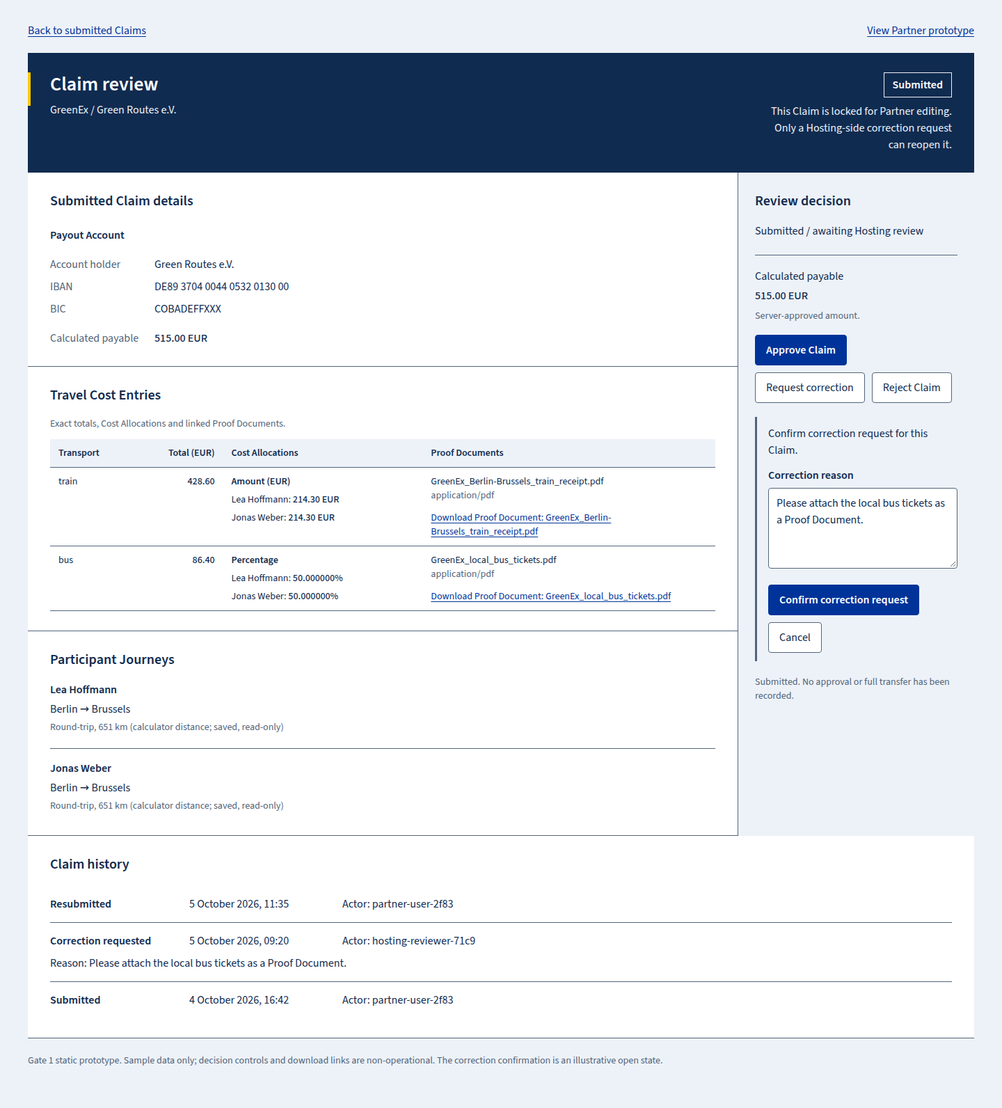
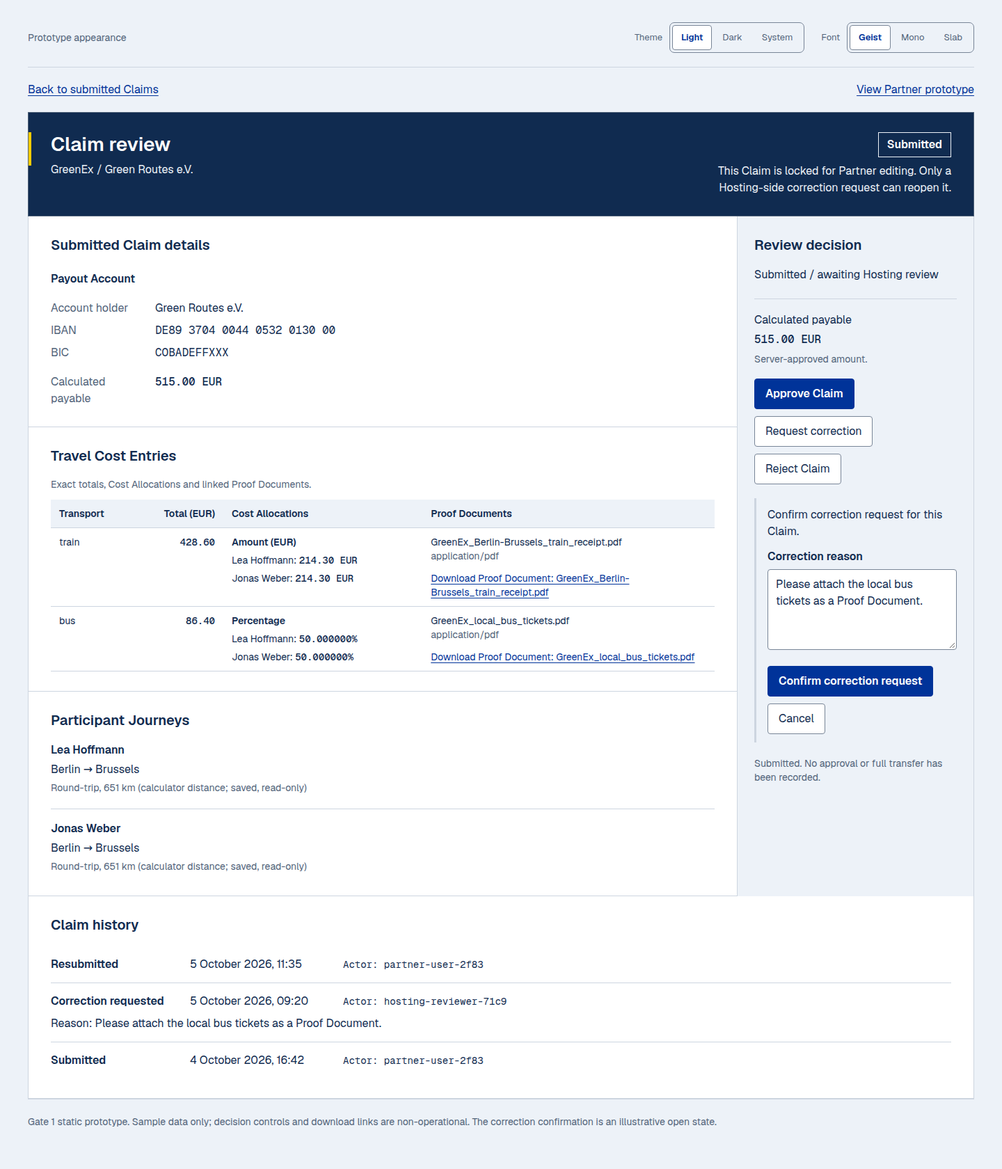
docs(design): charcoal dark theme, theme switcher, font candidates

diff --git a/docs/design/prototype/claim-partner.html b/docs/design/prototype/claim-partner.html
@@ -1,3 +1,53 @@
 <!doctype html>
-<html lang="en"><head><meta charset="utf-8"><meta name="viewport" content="width=device-width, initial-scale=1"><title>Claim workspace | GreenEx</title><link rel="preconnect" href="https://fonts.googleapis.com"><link rel="preconnect" href="https://fonts.gstatic.com" crossorigin><link href="https://fonts.googleapis.com/css2?family=Source+Sans+3:wght@400;500;600&display=swap" rel="stylesheet"><link rel="stylesheet" href="erasmus.css"></head><body><main class="shell">
-<nav class="topline" aria-label="Prototype navigation"><a href="#prototype-note">Back to Projects</a><a href="claim-review.html">View Hosting review prototype</a></nav><header class="context"><div><h1>Claim workspace</h1><p>GreenEx / Green Routes e.V.</p></div><div class="state"><span class="status">Correction requested</span><p>Correct the Claim data and Proof Documents, then resubmit for Hosting review.</p></div></header><div class="document"><div class="columns"><aside class="aside" aria-labelledby="submission-title"><h2 id="submission-title">Submission</h2><ul class="checklist" aria-label="Submission checklist"><li><p><strong>Pass:</strong> Selected Payout Account</p><a href="#claim-payout">View section</a></li><li><p><strong>Pass:</strong> At least one Travel Cost Entry</p><a href="#claim-costs">View section</a></li><li><p><strong>Pass:</strong> Valid transport, exact costs and allocations</p><a href="#claim-costs">View section</a></li><li><p><strong>Pass:</strong> Proof Documents linked to every cost</p><a href="#claim-proofs">View section</a></li><li><p><strong>Pass:</strong> Covered Participations belong to this Partnership and have Journeys</p><a href="#claim-journeys">View section</a></li><li><p><strong>Pass:</strong> Complete Participant Journeys</p><a href="#claim-journeys">View section</a></li><li><p><strong>Pass:</strong> Relationship, exact-money and frozen funding rules</p><a href="#claim-journeys">View section</a></li></ul><div class="payable"><p>Calculated payable<span class="amount">515.00 EUR</span><span class="small muted">Computed by the server; not editable.</span></p></div><button class="primary" type="button">Submit Claim</button><div class="notice"><p>Confirm submission: submission locks the Claim and selected Payout Account for Partner editing until the Hosting side requests a correction.</p><div class="actions"><button class="primary" type="button">Confirm submission</button><button type="button">Cancel</button></div></div></aside><div class="evidence"><section class="section" id="claim-payout"><h2>Claim draft</h2><p class="muted">Claim correction_requested / saved</p><label for="payout-select">Payout Account</label><select id="payout-select"><option>Green Routes e.V. — DE89 3704 0044 0532 0130 00</option></select><dl class="metadata"><dt>Account holder</dt><dd>Green Routes e.V.</dd><dt>IBAN</dt><dd class="iban">DE89 3704 0044 0532 0130 00</dd><dt>BIC</dt><dd>COBADEFFXXX</dd></dl><h3>Create Payout Account</h3><div class="fields"><div class="full"><label for="account-holder">Account holder</label><input id="account-holder" placeholder="Account holder"></div><div><label for="account-iban">IBAN</label><input id="account-iban" placeholder="DE…"></div><div><label for="account-bic">BIC (optional)</label><input id="account-bic" placeholder="BIC"></div></div><button type="button">Create Payout Account</button><div class="notice"><p><strong>Correction requested:</strong> Please attach the local bus tickets as a Proof Document.</p></div></section><section class="section" id="claim-journeys"><h2>Participant Journeys</h2><ul><li class="journey" id="journey-1"><div><p><strong>Lea Hoffmann</strong></p><p>Berlin → Brussels</p><p class="muted small">Round-trip, 651 km (calculator distance)</p></div><button type="button">Correct Lea Hoffmann's journey</button></li><li class="journey" id="journey-2"><div><p><strong>Jonas Weber</strong></p><p>Berlin → Brussels</p><p class="muted small">Round-trip, 651 km (calculator distance)</p></div><button type="button">Correct Jonas Weber's journey</button></li></ul></section></div></div><section class="section" id="claim-costs"><h2>Travel Cost Entries</h2><div class="scroll-table" role="region" aria-label="Travel Cost Entries table, horizontally scrollable" tabindex="0"><table><caption>Exact totals, Cost Allocations and linked Proof Documents.</caption><colgroup><col style="width:12%"><col style="width:14%"><col style="width:30%"><col style="width:30%"><col style="width:14%"></colgroup><thead><tr><th scope="col">Transport</th><th scope="col" class="number">Total (EUR)</th><th scope="col">Cost Allocations</th><th scope="col">Proof Documents</th><th scope="col">Action</th></tr></thead><tbody><tr id="cost-train"><td>train</td><td class="number amount">428.60</td><td><p class="method">Amount (EUR)</p><ul><li>Lea Hoffmann: <span class="amount">214.30 EUR</span></li><li>Jonas Weber: <span class="amount">214.30 EUR</span></li></ul></td><td><span class="file">GreenEx_Berlin-Brussels_train_receipt.pdf</span></td><td><button type="button">Edit cost</button></td></tr><tr id="cost-bus"><td>bus</td><td class="number amount">86.40</td><td><p class="method">Percentage</p><ul><li>Lea Hoffmann: <span class="amount">50.000000%</span></li><li>Jonas Weber: <span class="amount">50.000000%</span></li></ul></td><td><span class="file">GreenEx_local_bus_tickets.pdf</span></td><td><button type="button">Edit cost</button></td></tr></tbody></table></div><h3>Add cost</h3><div class="fields"><div><label for="cost-profile">Transport</label><select id="cost-profile"><option>train</option><option>bus</option><option>boat</option><option>car</option><option>electricCar</option><option>plane</option></select></div><div><label for="cost-amount">Exact total (EUR)</label><input id="cost-amount" inputmode="decimal" placeholder="0.00"></div><div><label for="cost-method">Allocation method</label><select id="cost-method"><option>Equal</option><option>Percentage</option><option>Amount (EUR)</option></select></div></div><fieldset><legend>Covered Participations</legend><label class="check"><input type="checkbox" checked> Lea Hoffmann</label><label class="check"><input type="checkbox" checked> Jonas Weber</label></fieldset><p class="muted small">Equal split across 2 Participations; exact EUR shares computed by the server after save.</p><button class="primary" type="button">Save cost</button></section><section class="section" id="claim-proofs"><h2>Proof Documents</h2><ul class="proof-list"><li class="file">GreenEx_Berlin-Brussels_train_receipt.pdf <span class="muted small">(248320 bytes)</span></li><li class="file">GreenEx_local_bus_tickets.pdf <span class="muted small">(96480 bytes)</span></li></ul><div class="upload"><label for="proof-file">Upload Proof Document (PDF, JPEG, PNG; up to 10 MB)</label><input id="proof-file" type="file" accept="application/pdf,image/jpeg,image/png"><div class="actions"><button type="button" disabled>Upload document</button></div><p class="small muted">Static upload snapshot: GreenEx_additional_receipt.pdf</p><progress value="64" max="100" aria-label="Upload progress">Upload: 64%</progress><output>Upload: 64%</output></div><div class="proof-links"><div id="proof-train"><p><strong>train</strong> <span class="amount">428.60 EUR</span></p><p class="file">Linked: GreenEx_Berlin-Brussels_train_receipt.pdf</p><label for="link-cost-train">Link a Proof Document to this cost</label><select id="link-cost-train"><option>Select Claim document</option></select></div><div id="proof-bus"><p><strong>bus</strong> <span class="amount">86.40 EUR</span></p><p class="file">Linked: GreenEx_local_bus_tickets.pdf</p><label for="link-cost-bus">Link a Proof Document to this cost</label><select id="link-cost-bus"><option>Select Claim document</option></select></div></div></section><section class="section"><h2>Claim history</h2><ol class="history"><li><strong>Correction requested</strong><time>5 October 2026, 09:20</time><span class="actor">Actor: hosting-reviewer-71c9</span><p class="reason">Reason: Please attach the local bus tickets as a Proof Document.</p></li><li><strong>Submitted</strong><time>4 October 2026, 16:42</time><span class="actor">Actor: partner-user-2f83</span></li></ol></section></div><footer id="prototype-note">Gate 1 static prototype. Sample data only; controls do not save, submit or upload. Upload progress and confirmations are illustrative snapshots.</footer></main></body></html>
+<html lang="en"><head><meta charset="utf-8"><meta name="viewport" content="width=device-width, initial-scale=1"><title>Claim workspace | GreenEx</title><link rel="preconnect" href="https://fonts.googleapis.com"><link rel="preconnect" href="https://fonts.gstatic.com" crossorigin><link href="https://fonts.googleapis.com/css2?family=Geist:wght@400;500;600&family=Geist+Mono:wght@400;500;600&family=JetBrains+Mono:wght@400;500;600&family=Roboto+Slab:wght@500;600&family=Source+Sans+3:wght@400;500;600&display=swap" rel="stylesheet"><script>
+  const prototypeOptions = { theme: ['light', 'dark', 'system'], font: ['geist', 'mono', 'slab'] };
+  const prototypeDefaults = { theme: 'system', font: 'geist' };
+  const prototypeParams = new URLSearchParams(location.search);
+  for (const [key, values] of Object.entries(prototypeOptions)) {
+    document.documentElement.dataset[key] = values.includes(prototypeParams.get(key)) ? prototypeParams.get(key) : prototypeDefaults[key];
+  }
+</script><link rel="stylesheet" href="erasmus.css"></head><body><main class="shell">
+<div class="prototype-toolbar" role="group" aria-label="Prototype appearance">
+  <span class="prototype-note">Prototype appearance</span>
+  <div class="prototype-option" role="group" aria-label="Theme">
+    <span class="prototype-label">Theme</span><div class="segmented">
+      <button type="button" data-theme-option="light" aria-pressed="false">Light</button>
+      <button type="button" data-theme-option="dark" aria-pressed="false">Dark</button>
+      <button type="button" data-theme-option="system" aria-pressed="false">System</button>
+    </div>
+  </div>
+  <div class="prototype-option" role="group" aria-label="Font candidate">
+    <span class="prototype-label">Font</span><div class="segmented">
+      <button type="button" data-font-option="geist" title="Geist Sans with Geist Mono figures" aria-pressed="false">Geist</button>
+      <button type="button" data-font-option="mono" title="Geist Sans with JetBrains Mono figures" aria-pressed="false">Mono</button>
+      <button type="button" data-font-option="slab" title="Roboto Slab headings with Source Sans 3 body and figures" aria-pressed="false">Slab</button>
+    </div>
+  </div>
+</div>
+<nav class="topline" aria-label="Prototype navigation"><a href="#prototype-note">Back to Projects</a><a data-prototype-page href="claim-review.html">View Hosting review prototype</a></nav><header class="context"><div><h1>Claim workspace</h1><p>GreenEx / Green Routes e.V.</p></div><div class="state"><span class="status">Correction requested</span><p>Correct the Claim data and Proof Documents, then resubmit for Hosting review.</p></div></header><div class="document"><div class="columns"><aside class="aside" aria-labelledby="submission-title"><h2 id="submission-title">Submission</h2><ul class="checklist" aria-label="Submission checklist"><li><p><strong>Pass:</strong> Selected Payout Account</p><a href="#claim-payout">View section</a></li><li><p><strong>Pass:</strong> At least one Travel Cost Entry</p><a href="#claim-costs">View section</a></li><li><p><strong>Pass:</strong> Valid transport, exact costs and allocations</p><a href="#claim-costs">View section</a></li><li><p><strong>Pass:</strong> Proof Documents linked to every cost</p><a href="#claim-proofs">View section</a></li><li><p><strong>Pass:</strong> Covered Participations belong to this Partnership and have Journeys</p><a href="#claim-journeys">View section</a></li><li><p><strong>Pass:</strong> Complete Participant Journeys</p><a href="#claim-journeys">View section</a></li><li><p><strong>Pass:</strong> Relationship, exact-money and frozen funding rules</p><a href="#claim-journeys">View section</a></li></ul><div class="payable"><p>Calculated payable<span class="amount">515.00 EUR</span><span class="small muted">Computed by the server; not editable.</span></p></div><button class="primary" type="button">Submit Claim</button><div class="notice"><p>Confirm submission: submission locks the Claim and selected Payout Account for Partner editing until the Hosting side requests a correction.</p><div class="actions"><button class="primary" type="button">Confirm submission</button><button type="button">Cancel</button></div></div></aside><div class="evidence"><section class="section" id="claim-payout"><h2>Claim draft</h2><p class="muted">Claim correction_requested / saved</p><label for="payout-select">Payout Account</label><select id="payout-select"><option>Green Routes e.V. — DE89 3704 0044 0532 0130 00</option></select><dl class="metadata"><dt>Account holder</dt><dd>Green Routes e.V.</dd><dt>IBAN</dt><dd class="iban">DE89 3704 0044 0532 0130 00</dd><dt>BIC</dt><dd class="reference">COBADEFFXXX</dd></dl><h3>Create Payout Account</h3><div class="fields"><div class="full"><label for="account-holder">Account holder</label><input id="account-holder" placeholder="Account holder"></div><div><label for="account-iban">IBAN</label><input id="account-iban" placeholder="DE…"></div><div><label for="account-bic">BIC (optional)</label><input id="account-bic" placeholder="BIC"></div></div><button type="button">Create Payout Account</button><div class="notice"><p><strong>Correction requested:</strong> Please attach the local bus tickets as a Proof Document.</p></div></section><section class="section" id="claim-journeys"><h2>Participant Journeys</h2><ul><li class="journey" id="journey-1"><div><p><strong>Lea Hoffmann</strong></p><p>Berlin → Brussels</p><p class="muted small">Round-trip, 651 km (calculator distance)</p></div><button type="button">Correct Lea Hoffmann's journey</button></li><li class="journey" id="journey-2"><div><p><strong>Jonas Weber</strong></p><p>Berlin → Brussels</p><p class="muted small">Round-trip, 651 km (calculator distance)</p></div><button type="button">Correct Jonas Weber's journey</button></li></ul></section></div></div><section class="section" id="claim-costs"><h2>Travel Cost Entries</h2><div class="scroll-table" role="region" aria-label="Travel Cost Entries table, horizontally scrollable" tabindex="0"><table><caption>Exact totals, Cost Allocations and linked Proof Documents.</caption><colgroup><col style="width:12%"><col style="width:14%"><col style="width:30%"><col style="width:30%"><col style="width:14%"></colgroup><thead><tr><th scope="col">Transport</th><th scope="col" class="number">Total (EUR)</th><th scope="col">Cost Allocations</th><th scope="col">Proof Documents</th><th scope="col">Action</th></tr></thead><tbody><tr id="cost-train"><td>train</td><td class="number amount">428.60</td><td><p class="method">Amount (EUR)</p><ul><li>Lea Hoffmann: <span class="amount">214.30 EUR</span></li><li>Jonas Weber: <span class="amount">214.30 EUR</span></li></ul></td><td><span class="file">GreenEx_Berlin-Brussels_train_receipt.pdf</span></td><td><button type="button">Edit cost</button></td></tr><tr id="cost-bus"><td>bus</td><td class="number amount">86.40</td><td><p class="method">Percentage</p><ul><li>Lea Hoffmann: <span class="amount">50.000000%</span></li><li>Jonas Weber: <span class="amount">50.000000%</span></li></ul></td><td><span class="file">GreenEx_local_bus_tickets.pdf</span></td><td><button type="button">Edit cost</button></td></tr></tbody></table></div><h3>Add cost</h3><div class="fields"><div><label for="cost-profile">Transport</label><select id="cost-profile"><option>train</option><option>bus</option><option>boat</option><option>car</option><option>electricCar</option><option>plane</option></select></div><div><label for="cost-amount">Exact total (EUR)</label><input id="cost-amount" inputmode="decimal" placeholder="0.00"></div><div><label for="cost-method">Allocation method</label><select id="cost-method"><option>Equal</option><option>Percentage</option><option>Amount (EUR)</option></select></div></div><fieldset><legend>Covered Participations</legend><label class="check"><input type="checkbox" checked> Lea Hoffmann</label><label class="check"><input type="checkbox" checked> Jonas Weber</label></fieldset><p class="muted small">Equal split across 2 Participations; exact EUR shares computed by the server after save.</p><button class="primary" type="button">Save cost</button></section><section class="section" id="claim-proofs"><h2>Proof Documents</h2><ul class="proof-list"><li class="file">GreenEx_Berlin-Brussels_train_receipt.pdf <span class="muted small">(248320 bytes)</span></li><li class="file">GreenEx_local_bus_tickets.pdf <span class="muted small">(96480 bytes)</span></li></ul><div class="upload"><label for="proof-file">Upload Proof Document (PDF, JPEG, PNG; up to 10 MB)</label><input id="proof-file" type="file" accept="application/pdf,image/jpeg,image/png"><div class="actions"><button type="button" disabled>Upload document</button></div><p class="small muted">Static upload snapshot: GreenEx_additional_receipt.pdf</p><progress value="64" max="100" aria-label="Upload progress">Upload: 64%</progress><output>Upload: 64%</output></div><div class="proof-links"><div id="proof-train"><p><strong>train</strong> <span class="amount">428.60 EUR</span></p><p class="file">Linked: GreenEx_Berlin-Brussels_train_receipt.pdf</p><label for="link-cost-train">Link a Proof Document to this cost</label><select id="link-cost-train"><option>Select Claim document</option></select></div><div id="proof-bus"><p><strong>bus</strong> <span class="amount">86.40 EUR</span></p><p class="file">Linked: GreenEx_local_bus_tickets.pdf</p><label for="link-cost-bus">Link a Proof Document to this cost</label><select id="link-cost-bus"><option>Select Claim document</option></select></div></div></section><section class="section"><h2>Claim history</h2><ol class="history"><li><strong>Correction requested</strong><time>5 October 2026, 09:20</time><span class="actor">Actor: hosting-reviewer-71c9</span><p class="reason">Reason: Please attach the local bus tickets as a Proof Document.</p></li><li><strong>Submitted</strong><time>4 October 2026, 16:42</time><span class="actor">Actor: partner-user-2f83</span></li></ol></section></div><footer id="prototype-note">Gate 1 static prototype. Sample data only; controls do not save, submit or upload. Upload progress and confirmations are illustrative snapshots.</footer></main><script>
+  function syncPrototypeControls() {
+    for (const key of Object.keys(prototypeOptions)) {
+      document.querySelectorAll(`[data-${key}-option]`).forEach(button => {
+        button.setAttribute('aria-pressed', String(button.getAttribute(`data-${key}-option`) === document.documentElement.dataset[key]));
+      });
+    }
+    document.querySelectorAll('.topline a[data-prototype-page]').forEach(link => {
+      const url = new URL(link.getAttribute('href'), location.href);
+      url.searchParams.set('theme', document.documentElement.dataset.theme);
+      url.searchParams.set('font', document.documentElement.dataset.font);
+      link.href = url.href;
+    });
+  }
+  for (const key of Object.keys(prototypeOptions)) {
+    document.querySelectorAll(`[data-${key}-option]`).forEach(button => {
+      button.addEventListener('click', () => {
+        document.documentElement.dataset[key] = button.getAttribute(`data-${key}-option`);
+        const url = new URL(location.href);
+        url.searchParams.set(key, document.documentElement.dataset[key]);
+        history.replaceState(null, '', url);
+        syncPrototypeControls();
+      });
+    });
+  }
+  syncPrototypeControls();
+</script></body></html>

diff --git a/docs/design/prototype/claim-review.html b/docs/design/prototype/claim-review.html
@@ -1,3 +1,53 @@
 <!doctype html>
-<html lang="en"><head><meta charset="utf-8"><meta name="viewport" content="width=device-width, initial-scale=1"><title>Claim review | GreenEx</title><link rel="preconnect" href="https://fonts.googleapis.com"><link rel="preconnect" href="https://fonts.gstatic.com" crossorigin><link href="https://fonts.googleapis.com/css2?family=Source+Sans+3:wght@400;500;600&display=swap" rel="stylesheet"><link rel="stylesheet" href="erasmus.css"></head><body><main class="shell">
-<nav class="topline" aria-label="Prototype navigation"><a href="#prototype-note">Back to submitted Claims</a><a href="claim-partner.html">View Partner prototype</a></nav><header class="context"><div><h1>Claim review</h1><p>GreenEx / Green Routes e.V.</p></div><div class="state"><span class="status">Submitted</span><p>This Claim is locked for Partner editing. Only a Hosting-side correction request can reopen it.</p></div></header><div class="document"><div class="columns"><aside class="aside" aria-labelledby="decision-title"><h2 id="decision-title">Review decision</h2><p>Submitted / awaiting Hosting review</p><div class="payable"><p>Calculated payable<span class="amount">515.00 EUR</span><span class="small muted">Server-approved amount.</span></p></div><div class="actions"><button class="primary" type="button">Approve Claim</button><button type="button">Request correction</button><button type="button">Reject Claim</button></div><div class="notice"><p>Confirm correction request for this Claim.</p><label for="decision-reason">Correction reason</label><textarea id="decision-reason" rows="4" required maxlength="2000">Please attach the local bus tickets as a Proof Document.</textarea><div class="actions"><button class="primary" type="button">Confirm correction request</button><button type="button">Cancel</button></div></div><p class="small muted" style="margin-top:20px">Submitted. No approval or full transfer has been recorded.</p></aside><div class="evidence"><section class="section" id="claim-payout"><h2>Submitted Claim details</h2><h3>Payout Account</h3><dl class="metadata"><dt>Account holder</dt><dd>Green Routes e.V.</dd><dt>IBAN</dt><dd class="iban">DE89 3704 0044 0532 0130 00</dd><dt>BIC</dt><dd>COBADEFFXXX</dd></dl><dl class="metadata"><dt>Calculated payable</dt><dd class="amount">515.00 EUR</dd></dl></section><section class="section" id="claim-costs"><h2>Travel Cost Entries</h2><div class="scroll-table" role="region" aria-label="Travel Cost Entries table, horizontally scrollable" tabindex="0"><table><caption>Exact totals, Cost Allocations and linked Proof Documents.</caption><colgroup><col style="width:12%"><col style="width:14%"><col style="width:30%"><col style="width:44%"></colgroup><thead><tr><th scope="col">Transport</th><th scope="col" class="number">Total (EUR)</th><th scope="col">Cost Allocations</th><th scope="col">Proof Documents</th></tr></thead><tbody><tr id="cost-train"><td>train</td><td class="number amount">428.60</td><td><p class="method">Amount (EUR)</p><ul><li>Lea Hoffmann: <span class="amount">214.30 EUR</span></li><li>Jonas Weber: <span class="amount">214.30 EUR</span></li></ul></td><td><span class="file">GreenEx_Berlin-Brussels_train_receipt.pdf</span><p class="muted small">application/pdf</p><a class="download" href="#prototype-note" aria-label="Download Proof Document: GreenEx_Berlin-Brussels_train_receipt.pdf">Download Proof Document: GreenEx_Berlin-Brussels_train_receipt.pdf</a></td></tr><tr id="cost-bus"><td>bus</td><td class="number amount">86.40</td><td><p class="method">Percentage</p><ul><li>Lea Hoffmann: <span class="amount">50.000000%</span></li><li>Jonas Weber: <span class="amount">50.000000%</span></li></ul></td><td><span class="file">GreenEx_local_bus_tickets.pdf</span><p class="muted small">application/pdf</p><a class="download" href="#prototype-note" aria-label="Download Proof Document: GreenEx_local_bus_tickets.pdf">Download Proof Document: GreenEx_local_bus_tickets.pdf</a></td></tr></tbody></table></div></section><section class="section" id="claim-journeys"><h2>Participant Journeys</h2><ul><li class="journey" id="journey-1"><div><p><strong>Lea Hoffmann</strong></p><p>Berlin → Brussels</p><p class="muted small">Round-trip, 651 km (calculator distance; saved, read-only)</p></div></li><li class="journey" id="journey-2"><div><p><strong>Jonas Weber</strong></p><p>Berlin → Brussels</p><p class="muted small">Round-trip, 651 km (calculator distance; saved, read-only)</p></div></li></ul></section></div></div><section class="section"><h2>Claim history</h2><ol class="history"><li><strong>Resubmitted</strong><time>5 October 2026, 11:35</time><span class="actor">Actor: partner-user-2f83</span></li><li><strong>Correction requested</strong><time>5 October 2026, 09:20</time><span class="actor">Actor: hosting-reviewer-71c9</span><p class="reason">Reason: Please attach the local bus tickets as a Proof Document.</p></li><li><strong>Submitted</strong><time>4 October 2026, 16:42</time><span class="actor">Actor: partner-user-2f83</span></li></ol></section></div><footer id="prototype-note">Gate 1 static prototype. Sample data only; decision controls and download links are non-operational. The correction confirmation is an illustrative open state.</footer></main></body></html>
+<html lang="en"><head><meta charset="utf-8"><meta name="viewport" content="width=device-width, initial-scale=1"><title>Claim review | GreenEx</title><link rel="preconnect" href="https://fonts.googleapis.com"><link rel="preconnect" href="https://fonts.gstatic.com" crossorigin><link href="https://fonts.googleapis.com/css2?family=Geist:wght@400;500;600&family=Geist+Mono:wght@400;500;600&family=JetBrains+Mono:wght@400;500;600&family=Roboto+Slab:wght@500;600&family=Source+Sans+3:wght@400;500;600&display=swap" rel="stylesheet"><script>
+  const prototypeOptions = { theme: ['light', 'dark', 'system'], font: ['geist', 'mono', 'slab'] };
+  const prototypeDefaults = { theme: 'system', font: 'geist' };
+  const prototypeParams = new URLSearchParams(location.search);
+  for (const [key, values] of Object.entries(prototypeOptions)) {
+    document.documentElement.dataset[key] = values.includes(prototypeParams.get(key)) ? prototypeParams.get(key) : prototypeDefaults[key];
+  }
+</script><link rel="stylesheet" href="erasmus.css"></head><body><main class="shell">
+<div class="prototype-toolbar" role="group" aria-label="Prototype appearance">
+  <span class="prototype-note">Prototype appearance</span>
+  <div class="prototype-option" role="group" aria-label="Theme">
+    <span class="prototype-label">Theme</span><div class="segmented">
+      <button type="button" data-theme-option="light" aria-pressed="false">Light</button>
+      <button type="button" data-theme-option="dark" aria-pressed="false">Dark</button>
+      <button type="button" data-theme-option="system" aria-pressed="false">System</button>
+    </div>
+  </div>
+  <div class="prototype-option" role="group" aria-label="Font candidate">
+    <span class="prototype-label">Font</span><div class="segmented">
+      <button type="button" data-font-option="geist" title="Geist Sans with Geist Mono figures" aria-pressed="false">Geist</button>
+      <button type="button" data-font-option="mono" title="Geist Sans with JetBrains Mono figures" aria-pressed="false">Mono</button>
+      <button type="button" data-font-option="slab" title="Roboto Slab headings with Source Sans 3 body and figures" aria-pressed="false">Slab</button>
+    </div>
+  </div>
+</div>
+<nav class="topline" aria-label="Prototype navigation"><a href="#prototype-note">Back to submitted Claims</a><a data-prototype-page href="claim-partner.html">View Partner prototype</a></nav><header class="context"><div><h1>Claim review</h1><p>GreenEx / Green Routes e.V.</p></div><div class="state"><span class="status">Submitted</span><p>This Claim is locked for Partner editing. Only a Hosting-side correction request can reopen it.</p></div></header><div class="document"><div class="columns"><aside class="aside" aria-labelledby="decision-title"><h2 id="decision-title">Review decision</h2><p>Submitted / awaiting Hosting review</p><div class="payable"><p>Calculated payable<span class="amount">515.00 EUR</span><span class="small muted">Server-approved amount.</span></p></div><div class="actions"><button class="primary" type="button">Approve Claim</button><button type="button">Request correction</button><button type="button">Reject Claim</button></div><div class="notice"><p>Confirm correction request for this Claim.</p><label for="decision-reason">Correction reason</label><textarea id="decision-reason" rows="4" required maxlength="2000">Please attach the local bus tickets as a Proof Document.</textarea><div class="actions"><button class="primary" type="button">Confirm correction request</button><button type="button">Cancel</button></div></div><p class="small muted" style="margin-top:20px">Submitted. No approval or full transfer has been recorded.</p></aside><div class="evidence"><section class="section" id="claim-payout"><h2>Submitted Claim details</h2><h3>Payout Account</h3><dl class="metadata"><dt>Account holder</dt><dd>Green Routes e.V.</dd><dt>IBAN</dt><dd class="iban">DE89 3704 0044 0532 0130 00</dd><dt>BIC</dt><dd class="reference">COBADEFFXXX</dd></dl><dl class="metadata"><dt>Calculated payable</dt><dd class="amount">515.00 EUR</dd></dl></section><section class="section" id="claim-costs"><h2>Travel Cost Entries</h2><div class="scroll-table" role="region" aria-label="Travel Cost Entries table, horizontally scrollable" tabindex="0"><table><caption>Exact totals, Cost Allocations and linked Proof Documents.</caption><colgroup><col style="width:12%"><col style="width:14%"><col style="width:30%"><col style="width:44%"></colgroup><thead><tr><th scope="col">Transport</th><th scope="col" class="number">Total (EUR)</th><th scope="col">Cost Allocations</th><th scope="col">Proof Documents</th></tr></thead><tbody><tr id="cost-train"><td>train</td><td class="number amount">428.60</td><td><p class="method">Amount (EUR)</p><ul><li>Lea Hoffmann: <span class="amount">214.30 EUR</span></li><li>Jonas Weber: <span class="amount">214.30 EUR</span></li></ul></td><td><span class="file">GreenEx_Berlin-Brussels_train_receipt.pdf</span><p class="muted small">application/pdf</p><a class="download" href="#prototype-note" aria-label="Download Proof Document: GreenEx_Berlin-Brussels_train_receipt.pdf">Download Proof Document: GreenEx_Berlin-Brussels_train_receipt.pdf</a></td></tr><tr id="cost-bus"><td>bus</td><td class="number amount">86.40</td><td><p class="method">Percentage</p><ul><li>Lea Hoffmann: <span class="amount">50.000000%</span></li><li>Jonas Weber: <span class="amount">50.000000%</span></li></ul></td><td><span class="file">GreenEx_local_bus_tickets.pdf</span><p class="muted small">application/pdf</p><a class="download" href="#prototype-note" aria-label="Download Proof Document: GreenEx_local_bus_tickets.pdf">Download Proof Document: GreenEx_local_bus_tickets.pdf</a></td></tr></tbody></table></div></section><section class="section" id="claim-journeys"><h2>Participant Journeys</h2><ul><li class="journey" id="journey-1"><div><p><strong>Lea Hoffmann</strong></p><p>Berlin → Brussels</p><p class="muted small">Round-trip, 651 km (calculator distance; saved, read-only)</p></div></li><li class="journey" id="journey-2"><div><p><strong>Jonas Weber</strong></p><p>Berlin → Brussels</p><p class="muted small">Round-trip, 651 km (calculator distance; saved, read-only)</p></div></li></ul></section></div></div><section class="section"><h2>Claim history</h2><ol class="history"><li><strong>Resubmitted</strong><time>5 October 2026, 11:35</time><span class="actor">Actor: partner-user-2f83</span></li><li><strong>Correction requested</strong><time>5 October 2026, 09:20</time><span class="actor">Actor: hosting-reviewer-71c9</span><p class="reason">Reason: Please attach the local bus tickets as a Proof Document.</p></li><li><strong>Submitted</strong><time>4 October 2026, 16:42</time><span class="actor">Actor: partner-user-2f83</span></li></ol></section></div><footer id="prototype-note">Gate 1 static prototype. Sample data only; decision controls and download links are non-operational. The correction confirmation is an illustrative open state.</footer></main><script>
+  function syncPrototypeControls() {
+    for (const key of Object.keys(prototypeOptions)) {
+      document.querySelectorAll(`[data-${key}-option]`).forEach(button => {
+        button.setAttribute('aria-pressed', String(button.getAttribute(`data-${key}-option`) === document.documentElement.dataset[key]));
+      });
+    }
+    document.querySelectorAll('.topline a[data-prototype-page]').forEach(link => {
+      const url = new URL(link.getAttribute('href'), location.href);
+      url.searchParams.set('theme', document.documentElement.dataset.theme);
+      url.searchParams.set('font', document.documentElement.dataset.font);
+      link.href = url.href;
+    });
+  }
+  for (const key of Object.keys(prototypeOptions)) {
+    document.querySelectorAll(`[data-${key}-option]`).forEach(button => {
+      button.addEventListener('click', () => {
+        document.documentElement.dataset[key] = button.getAttribute(`data-${key}-option`);
+        const url = new URL(location.href);
+        url.searchParams.set(key, document.documentElement.dataset[key]);
+        history.replaceState(null, '', url);
+        syncPrototypeControls();
+      });
+    });
+  }
+  syncPrototypeControls();
+</script></body></html>

diff --git a/docs/design/prototype/erasmus.css b/docs/design/prototype/erasmus.css
@@ -1,4 +1,4 @@
-/* Throwaway Gate 1 prototype. Six identity colors; no application styles. */
+/* Gate 1 prototype only. Neutral document surfaces; EU colors are identity, not status. */
 :root {
   --trust-navy: #102B50;
   --eu-blue: #003399;
@@ -10,7 +10,12 @@
   --plane: var(--paper);
   --ink: var(--trust-navy);
   --muted: var(--supporting-slate);
-  --line: var(--supporting-slate);
+  --line: #CDD5E0;
+  --control-line: #788597;
+  --link: var(--eu-blue);
+  --body-font: 'Geist', system-ui, sans-serif;
+  --heading-font: var(--body-font);
+  --data-font: 'Geist Mono', ui-monospace, monospace;
   --soft: var(--quiet-blue);
   --primary: var(--eu-blue);
   --on-primary: var(--paper);
@@ -18,16 +23,22 @@
   color-scheme: light;
 }
 * { box-sizing: border-box; }
-body { margin: 0; background: var(--page); color: var(--ink); font: 400 16px/24px 'Source Sans 3', system-ui, sans-serif; }
-a { color: var(--primary); text-underline-offset: 3px; }
+body { margin: 0; background: var(--page); color: var(--ink); font: 400 16px/24px var(--body-font); }
+:root[data-font="mono"] { --data-font: 'JetBrains Mono', ui-monospace, monospace; }
+:root[data-font="slab"] { --body-font: 'Source Sans 3', system-ui, sans-serif; --heading-font: 'Roboto Slab', Georgia, serif; --data-font: var(--body-font); }
+h1, h2, h3 { font-family: var(--heading-font); }
+.amount, .iban, .reference, .actor, #account-iban, #account-bic, #cost-amount { font-family: var(--data-font); font-variant-numeric: tabular-nums; }
+.actor { font-size: 14px; }
+a { color: var(--link); text-underline-offset: 3px; }
 a:hover { text-decoration-thickness: 2px; }
 :focus-visible { outline: 3px solid var(--focus); outline-offset: 4px; }
 button, input, select, textarea { font: inherit; }
-button { cursor: pointer; border: 1px solid var(--line); border-radius: 4px; padding: 9px 15px; min-height: 44px; background: var(--plane); color: var(--ink); transition: transform 100ms ease-out; }
+button { cursor: pointer; border: 1px solid var(--control-line); border-radius: 4px; padding: 9px 15px; min-height: 44px; background: var(--plane); color: var(--ink); transition: transform 100ms ease-out; }
+button:hover:not(:disabled) { background: var(--soft); }
 button:active:not(:disabled) { transform: scale(.97); }
 button.primary { background: var(--primary); color: var(--on-primary); border-color: var(--primary); font-weight: 600; }
 button:disabled { cursor: default; border-style: dashed; }
-input:not([type=checkbox]), select, textarea { width: 100%; min-width: 0; min-height: 44px; background: var(--plane); color: var(--ink); border: 1px solid var(--line); padding: 9px 11px; border-radius: 4px; }
+input:not([type=checkbox]), select, textarea { width: 100%; min-width: 0; min-height: 44px; background: var(--plane); color: var(--ink); border: 1px solid var(--control-line); padding: 9px 11px; border-radius: 4px; }
 input[type=checkbox] { accent-color: var(--primary); width: 18px; height: 18px; vertical-align: middle; }
 label { display: block; font-weight: 600; margin-bottom: 6px; }
 label.check { font-weight: 400; }
@@ -41,12 +52,21 @@ ul, ol { margin: 0; padding: 0; list-style: none; }
 .shell { width: min(1360px, calc(100% - 64px)); margin: 32px auto 56px; }
 .topline { display: flex; flex-wrap: wrap; justify-content: space-between; gap: 12px; margin-bottom: 20px; }
 .prototype-note { color: var(--muted); font-size: 14px; line-height: 20px; }
-.context { position: relative; padding: 28px 32px; background: var(--trust-navy); color: var(--paper); display: flex; justify-content: space-between; gap: 24px; align-items: start; }
+.prototype-toolbar { display: flex; flex-wrap: wrap; align-items: center; gap: 12px 24px; padding: 0 0 20px; margin-bottom: 20px; border-bottom: 1px solid var(--line); }
+.prototype-toolbar > .prototype-note { margin-right: auto; }
+.prototype-option { display: flex; align-items: center; gap: 10px; min-width: 0; }
+.prototype-label { color: var(--muted); font-size: 13px; }
+.segmented { display: flex; padding: 3px; gap: 2px; background: var(--soft); border: 1px solid var(--control-line); border-radius: 7px; }
+.segmented button { font-size: 13px; line-height: 20px; min-height: 36px; padding: 7px 12px; border-color: transparent; background: transparent; color: var(--muted); }
+.segmented button:hover { color: var(--ink); }
+.segmented button[aria-pressed="true"] { background: var(--plane); color: var(--link); border-color: var(--control-line); font-weight: 600; }
+.segmented button:focus-visible { position: relative; z-index: 1; outline-offset: 2px; }
+.context { border: 1px solid #52647A; position: relative; padding: 28px 32px; background: var(--trust-navy); color: var(--paper); display: flex; justify-content: space-between; gap: 24px; align-items: start; }
 .context::before { content: ''; position: absolute; left: 0; top: 28px; width: 4px; height: 48px; background: var(--eu-yellow); }
 .context p { margin: 8px 0 0; color: var(--quiet-blue); }
 .context .status { font-weight: 600; border: 1px solid var(--quiet-blue); padding: 5px 12px; display: inline-block; }
 .context .state { text-align: right; max-width: 34ch; }
-.document { background: var(--plane); }
+.document { background: var(--plane); border: 1px solid var(--line); border-top: 0; }
 .columns { display: grid; grid-template-columns: minmax(0, 1fr) 340px; }
 .evidence { min-width: 0; order: 1; }
 .section { padding: 28px 32px; border-bottom: 1px solid var(--line); min-width: 0; }
@@ -94,9 +114,38 @@ progress::-moz-progress-bar { background: var(--primary); }
 .history .reason { grid-column: 1 / -1; margin: 0; }
 .actor { overflow-wrap: anywhere; }
 footer { margin-top: 20px; color: var(--muted); font-size: 14px; }
+/* Explicit light never follows the OS. System stays live when OS preference changes.
+   Dark: #2563EB / white primary ≈ 5.17:1; #93B4FF links on #27272A ≈ 7.24:1.
+   Yellow remains a separate brand/focus token, never an approval or warning. */
+:root[data-theme="dark"] {
+  color-scheme: dark;
+  --page: #09090B;
+  --plane: #18181B;
+  --soft: #27272A;
+  --ink: #E4E4E7;
+  --muted: #A1A1AA;
+  --line: #3F3F46;
+  --control-line: #71717A;
+  --primary: #2563EB;
+  --on-primary: #FFFFFF;
+  --link: #93B4FF;
+  --focus: var(--eu-yellow);
+}
 @media (prefers-color-scheme: dark) {
-  :root { color-scheme: dark; --page: var(--trust-navy); --plane: var(--trust-navy); --ink: var(--paper); --muted: var(--quiet-blue); --soft: var(--trust-navy); --primary: var(--quiet-blue); --on-primary: var(--trust-navy); --focus: var(--eu-yellow); }
-  .context { border-bottom: 1px solid var(--line); }
+  :root:not([data-theme="light"]):not([data-theme="dark"]) {
+    color-scheme: dark;
+    --page: #09090B;
+    --plane: #18181B;
+    --soft: #27272A;
+    --ink: #E4E4E7;
+    --muted: #A1A1AA;
+    --line: #3F3F46;
+    --control-line: #71717A;
+    --primary: #2563EB;
+    --on-primary: #FFFFFF;
+    --link: #93B4FF;
+    --focus: var(--eu-yellow);
+  }
 }
 @media (max-width: 960px) {
   .shell { width: calc(100% - 32px); margin-top: 20px; }
@@ -110,6 +159,10 @@ footer { margin-top: 20px; color: var(--muted); font-size: 14px; }
   .history .reason { margin-top: 8px; }
 }
 @media (max-width: 560px) {
+  .prototype-toolbar { gap: 12px; }
+  .prototype-toolbar > .prototype-note { flex-basis: 100%; }
+  .prototype-option { flex-basis: 100%; justify-content: space-between; }
+  .segmented button { min-height: 44px; }
   .section, .aside { padding: 24px 16px; }
   .fields, .proof-links { grid-template-columns: 1fr; }
   .metadata { grid-template-columns: 1fr; gap: 2px; }

diff --git a/docs/design/erasmus-billing-accounting-theme.md b/docs/design/erasmus-billing-accounting-theme.md
@@ -1,6 +1,6 @@
 # Erasmus Re-theme: Billing & Accounting (Cost Tracker)
 
-**Status:** Gate 1 visual review open — prototype + 6 screenshots in `docs/design/`, awaiting your rating. Nothing in `src/` touched.
+**Status:** Gate 1 visual review (v2) open — revised prototype + 6 fresh screenshots in `docs/design/`, awaiting your rating. Nothing in `src/` touched.
 **Branch:** `design/erasmus-billing-accounting-theme` (based off `origin/chore/add-cost-tracker-app` @ `469a0a23`).
 > Earlier the branch was cut from the wrong base (`refactor/cost-tracker-participant-and-claim-model` @ `5d9244ef`); re-created on the correct base 2026-10-05. No commits were made on the wrong base, only the untracked track file, which carried over.
 **Scope:** Cost Tracker Billing/Accounting surfaces — `Claim`, `Travel Cost Entry`, `Cost Allocation`, `Payout Account`, `Proof Document` ([cost-tracker glossary](../../apps/cost-tracker/GLOSSARY.md), [shared language](../../GLOSSARY.md)).
@@ -27,7 +27,8 @@ App-owned behavior details stay in `apps/cost-tracker/docs/`; this file tracks t
 | P   | Preflight            | done    | 13 agents executable; quota 5h 88% (reset 21:00 CEST), weekly 24% — above 15% gate          |
 | 1   | Scout audit          | done    | Handoff logged below; start-here: `claim-workspace.tsx`; risks: pink primary token, no-restyle, table density, IBAN narrow, states |
 | 2   | Theme plan (no code) | done    | Plan at subagent artifact `…/ff1fda3c-…/artifacts/erasmus-theme-plan.md` (161 lines); digest logged below; awaiting human approval |
-| 2B  | Static prototype     | done    | `worker [460499b1-…]` complete; `docs/design/prototype/` (2 pages + css); 6 verified screenshots in `docs/design/screenshots/`; my critique logged below |
+| 2B  | Static prototype     | done    | `worker [460499b1-…]` complete; `docs/design/prototype/` (2 pages + css); 6 verified screenshots in `docs/design/screenshots/`; critique logged below |
+| 2C  | Prototype revision   | done    | `worker [3becd11a-…]` on `gpt-6-astra:medium` complete; theme switch (?theme= + toolbar), charcoal dark, 3 font candidates (?font=); 6 fresh screenshots; notes in v2 review below |
 | 3   | Flagship build       | pending | Waits for your Gate 1 rating + explicit go |
 | 4   | Emil polish          | pending | Restrained pass, feedback-only motion                                                       |
 | 5   | Rollout + gates      | pending | Remaining screens, `format && lint`, `lint:design-system`                                   |
@@ -51,6 +52,14 @@ App-owned behavior details stay in `apps/cost-tracker/docs/`; this file tracks t
 - **Motion:** feedback-only (`scale(0.97)` 80–120ms, toasts, real progress); reduced-motion disables transforms.
 - **Residual risks:** contrast unmeasured (needs rendered screenshots), shared primitive variants vs no-restyle, large-list perf unaddressed, font migration out of scope.
 - **Full plan:** `/home/henning/.pi/agent/sessions/--home-henning-_dev-greendex-cost-tracker--/subagent-artifacts/outputs/ff1fda3c-ef5b-4b89-80b5-dbdaf093c695/artifacts/erasmus-theme-plan.md`
+
+## Prototype review v2 (astra revision, my fresh-eyes pass)
+
+- **Toolbar works:** `?theme=light|dark|system` + `?font=geist|mono|slab` honored; light viewable regardless of OS setting. Screenshots captured via explicit `?theme=` URLs.
+- **Dark v2:** charcoal page `#09090B`, surface `#18181B`, inset `#27272A`, border `#3F3F46`, text `#E4E4E7`, muted `#A1A1AA`, primary `#2563EB`, links `#93B4FF` — familiar shadcn/zinc universe, blue as action color, navy band + yellow edge kept as identity. Much calmer than full-navy v1.
+- **Fonts live to compare:** Geist (Sans + Mono figures), Mono (JetBrains Mono figures), Slab (Roboto Slab headings + Source Sans 3 body). Screenshots show Geist default; try `?font=mono` / `?font=slab` in the browser yourself.
+- **Still open (unchanged):** raw `correction_requested` string in Claim-draft line; `Pass: …` checklist copy tone; muted-text WCAG measurement in real build.
+- **Files:** `docs/design/prototype/{claim-partner.html,claim-review.html,erasmus.css}`; 6 screenshots refreshed in `docs/design/screenshots/`.
 
 ## Prototype review (my fresh-eyes pass)
 
